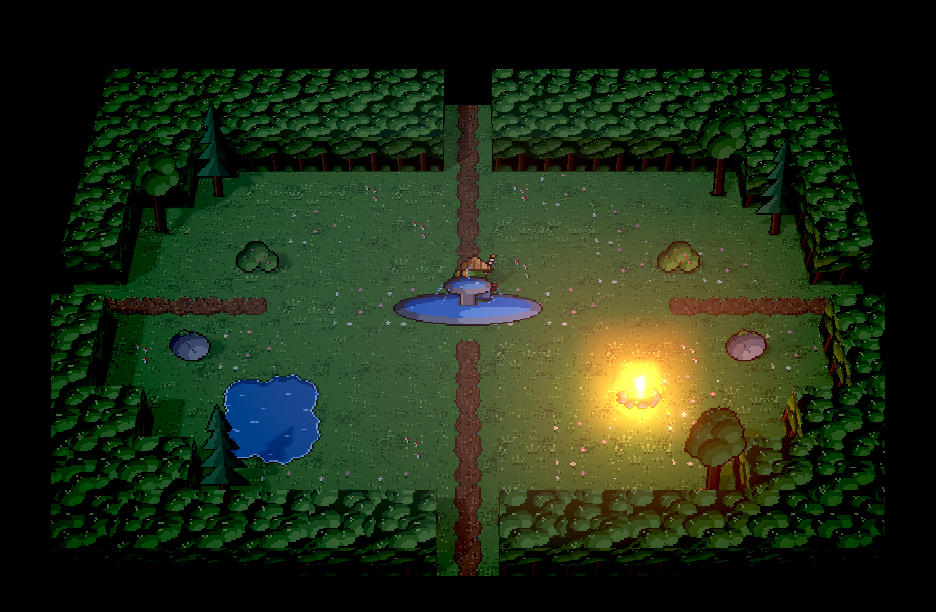
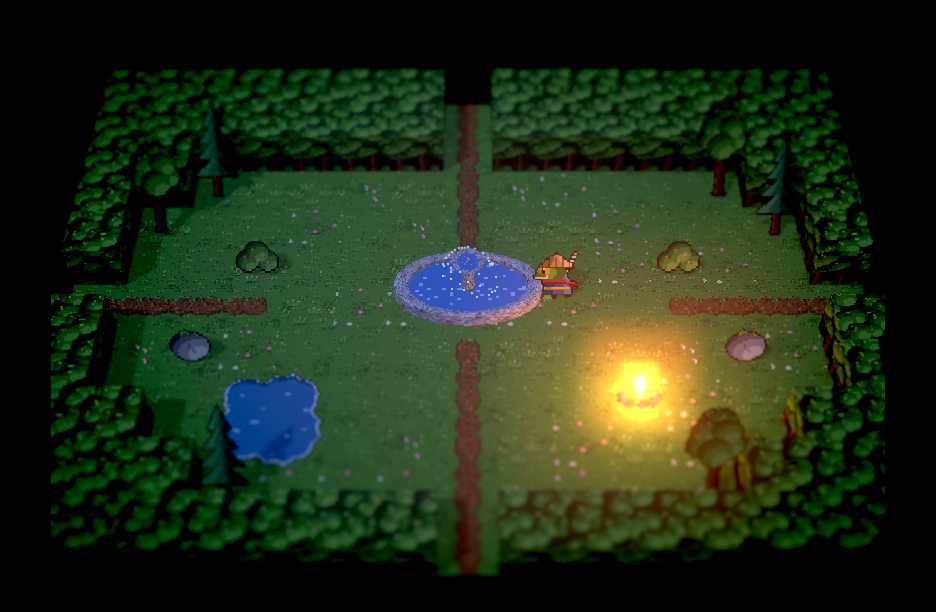
Prototipo HD-2D: fuente como modelo 3D con relieve
Pilón con borde de piedra, agua, columna, taza y gotas, con texturas pixeladas de la paleta del arte. Choca con su elipse; antes, tumbada, dejaba paredes invisibles sobre el pilón.

diff --git a/src/prototipo/hd2d.ts b/src/prototipo/hd2d.ts
@@ -21,6 +21,7 @@ import { crearTeclado } from '../input/teclado';
 import { iniciarBucle } from '../render/bucle';
 import { cargarSprite, cargarTilesets } from '../render/recursos';
 import { dibujarTile } from '../render/sala';
+import { crearFuente } from './fuente';
 
 // shortcut: números de prueba en el código; si la v2 sigue adelante, pasan a src/data/.
 const AJUSTES = {
@@ -32,16 +33,19 @@ const AJUSTES = {
   altoMuro: 1,
   /** Fracción de la inclinación de la cámara que se echan atrás los sprites (1 = de cara; menos, para no meterse en los muros). */
   inclinacionSprites: 0.5,
-  /** Tiles dibujados vistos desde arriba, que van tumbados en el suelo en vez de en pie. */
-  enSuelo: [
-    'fuente_izq_sup',
-    'fuente_izq_inf',
-    'fuente_der_sup',
-    'fuente_der_inf',
-    'fuente_cen_inf',
-  ],
-  /** Dónde se planta, dentro de su casilla, lo que sale de un objeto tumbado. */
-  pieSobreSuelo: 0.5,
+  /** La fuente es un modelo 3D en vez de sprites; `centroZ` la baja dentro de su casilla central. */
+  fuente: {
+    centroZ: 0.15,
+    radioX: 1.4,
+    radioZ: 0.8,
+    altoBorde: 0.24,
+    altoAgua: 0.15,
+    altoColumna: 0.62,
+    piedra: [0xdfe1ea, 0xb4b8c6, 0x7a7e92] as [number, number, number],
+    agua: [0x3d7fd6, 0x9fd0f5] as [number, number],
+    gotas: 40,
+    vidaGota: 0.55,
+  },
   luzCielo: 1.6,
   luzLuna: 0.9,
   hoguera: { color: 0xff9a4a, intensidad: 14, alcance: 6, alto: 0.55, parpadeo: 0.18 },
@@ -150,8 +154,9 @@ async function iniciar(): Promise<void> {
   });
 
   // Objetos y rana: planos de pie que miran a la cámara, para que se vean como el pixel art original.
-  // Lo que está dibujado visto desde arriba (el pilón de la fuente) va tumbado en el suelo.
+  // La fuente, dibujada vista desde arriba, no funciona de pie: va como modelo 3D con relieve.
   const animados: Pieza[] = [];
+  let fuente: ReturnType<typeof crearFuente> | null = null;
   const nuevaPieza = (tiles: Tile[]): Pieza => {
     const lienzo = pintar(1, tiles.length, tam, () => {});
     const pieza = { tiles, ctx: lienzo.getContext('2d')!, tex: textura(lienzo), frame: -1 };
@@ -161,28 +166,27 @@ async function iniciar(): Promise<void> {
   };
   const materialDe = (p: Pieza): THREE.MeshLambertMaterial =>
     new THREE.MeshLambertMaterial({ map: p.tex, alphaTest: 0.5, side: THREE.DoubleSide });
-  const enSuelo = (t: Tile | null): t is Tile => t !== null && AJUSTES.enSuelo.includes(t.name);
   const hoguera = new THREE.Vector3();
   for (const o of sala.objetos) {
-    for (const [t, fila] of [
-      [o.inf, o.y],
-      [o.sup, o.y - 1],
-    ] as const) {
-      if (!enSuelo(t)) continue;
-      const calco = new THREE.Mesh(new THREE.PlaneGeometry(1, 1), materialDe(nuevaPieza([t])));
-      calco.rotation.x = -Math.PI / 2;
-      calco.position.set(o.x + 0.5, 0.01, fila + 0.5);
-      calco.receiveShadow = true;
-      escena.add(calco);
-      // shortcut: un objeto tumbado choca con sus casillas enteras (la caja del tileset es para el dibujo en 2D); en la v2, en los datos del tileset.
-      sala.solido[fila * sala.ancho + o.x] = true;
-      sala.cajas[fila * sala.ancho + o.x] = null;
+    if (o.inf.name.startsWith('fuente_')) {
+      if (o.inf.name !== 'fuente_cen_inf') continue;
+      const f = AJUSTES.fuente;
+      fuente = crearFuente(f, crearAzar(11), 2 * renderer.getPixelRatio());
+      fuente.grupo.position.set(o.x + 0.5, 0, o.y + f.centroZ);
+      escena.add(fuente.grupo);
+      // shortcut: la fuente choca con su elipse (la caja del tileset es para el dibujo en 2D); en la v2, en los datos.
+      for (let fila = o.y - 1; fila <= o.y; fila++) {
+        for (let col = o.x - 1; col <= o.x + 1; col++) {
+          const caja = cajaElipse(o.x + 0.5, o.y + f.centroZ, f.radioX, f.radioZ, col, fila, tam);
+          sala.solido[fila * sala.ancho + col] = caja !== null;
+          sala.cajas[fila * sala.ancho + col] = caja;
+        }
+      }
+      continue;
     }
-    const dePie = [o.sup, o.inf].filter((t): t is Tile => t !== null && !enSuelo(t));
-    if (dePie.length === 0) continue;
+    const dePie = [o.sup, o.inf].filter((t): t is Tile => t !== null);
     const plano = carton(materialDe(nuevaPieza(dePie)), dePie.length, 0);
-    // Lo que sale de un objeto tumbado (el surtidor) se planta en medio de él, no en su borde.
-    plano.position.set(o.x + 0.5, 0, o.y + (enSuelo(o.inf) ? AJUSTES.pieSobreSuelo : 0.85));
+    plano.position.set(o.x + 0.5, 0, o.y + 0.85);
     plano.rotation.x = -giro;
     plano.scale.y = estirar;
     escena.add(plano);
@@ -282,6 +286,7 @@ async function iniciar(): Promise<void> {
         );
       }
       for (const a of animados) pintarPieza(a, imagenes, tam, tiempo);
+      fuente?.actualizar(tiempo);
       const p = AJUSTES.hoguera.parpadeo;
       fuego.intensity =
         AJUSTES.hoguera.intensidad *
@@ -338,6 +343,31 @@ function carton(material: THREE.Material, alto: number, pie: number): THREE.Mesh
   const plano = new THREE.Mesh(geometria, material);
   plano.castShadow = true;
   return plano;
+}
+
+/** Rectángulo `[x0, y0, x1, y1)` de la casilla (`col`, `fila`) que cae dentro de la elipse, o null si nada. */
+function cajaElipse(
+  cx: number,
+  cz: number,
+  rx: number,
+  rz: number,
+  col: number,
+  fila: number,
+  tam: number,
+): readonly [number, number, number, number] | null {
+  let [x0, y0, x1, y1] = [tam, tam, 0, 0];
+  for (let y = 0; y < tam; y++) {
+    for (let x = 0; x < tam; x++) {
+      const dx = (col + (x + 0.5) / tam - cx) / rx;
+      const dz = (fila + (y + 0.5) / tam - cz) / rz;
+      if (dx * dx + dz * dz > 1) continue;
+      x0 = Math.min(x0, x);
+      y0 = Math.min(y0, y);
+      x1 = Math.max(x1, x + 1);
+      y1 = Math.max(y1, y + 1);
+    }
+  }
+  return x1 > 0 ? [x0, y0, x1, y1] : null;
 }
 
 /** Tiles de un objeto apilados de arriba abajo en una textura, que se repinta al cambiar de fotograma. */

diff --git a/src/prototipo/fuente.ts b/src/prototipo/fuente.ts
@@ -1,0 +1,153 @@
+// shortcut: modelo 3D de la fuente para el prototipo HD-2D; en la v2, cada objeto con relieve tendría el suyo.
+import * as THREE from 'three';
+
+export interface AjustesFuente {
+  /** Semiejes del pilón (elíptico, como en el dibujo), en casillas. */
+  radioX: number;
+  radioZ: number;
+  altoBorde: number;
+  altoAgua: number;
+  altoColumna: number;
+  /** Colores de la paleta del arte: piedra (clara, media, oscura) y agua (honda, clara). */
+  piedra: [number, number, number];
+  agua: [number, number];
+  /** Gotas que caen de la taza al pilón y segundos que tarda cada una. */
+  gotas: number;
+  vidaGota: number;
+}
+
+// Perfil del pilón (radio, alto) de dentro afuera, con radio 1; luego se estira en X y Z.
+const BORDE = 0.82;
+
+/** Pilón con borde, agua, columna, taza y gotas, con texturas pixeladas para que case con el resto. */
+export function crearFuente(
+  a: AjustesFuente,
+  azar: () => number,
+  tamPunto: number,
+): { grupo: THREE.Group; actualizar: (tiempo: number) => void } {
+  const grupo = new THREE.Group();
+  const piedra = new THREE.MeshLambertMaterial({
+    map: ruido(a.piedra, [0.25, 0.55, 0.2], azar, 8, 2),
+    flatShading: true,
+    // Las dos caras: el perfil del torno deja la de fuera del pilón mirando hacia dentro.
+    side: THREE.DoubleSide,
+  });
+  const texAgua = ruido(a.agua, [0.92, 0.08], azar, 2, 2);
+  const agua = new THREE.MeshPhongMaterial({
+    map: texAgua,
+    shininess: 60,
+    specular: 0x88aadd,
+    flatShading: true,
+  });
+
+  const pilon = new THREE.Mesh(
+    new THREE.LatheGeometry(
+      [
+        [BORDE - 0.02, 0],
+        [BORDE, a.altoBorde],
+        [0.91, a.altoBorde + 0.03],
+        [1, a.altoBorde],
+        [1.02, 0],
+      ].map(([r = 0, y = 0]) => new THREE.Vector2(r, y)),
+      20,
+    ),
+    piedra,
+  );
+  const lamina = new THREE.Mesh(new THREE.CircleGeometry(BORDE, 20), agua);
+  lamina.rotation.x = -Math.PI / 2;
+  lamina.position.y = a.altoAgua;
+  for (const m of [pilon, lamina]) {
+    m.scale.set(a.radioX, 1, a.radioZ);
+    grupo.add(m);
+  }
+
+  const columna = new THREE.Mesh(new THREE.CylinderGeometry(0.09, 0.13, a.altoColumna, 8), piedra);
+  columna.position.y = a.altoAgua + a.altoColumna / 2;
+  const arriba = a.altoAgua + a.altoColumna;
+  const taza = new THREE.Mesh(
+    new THREE.LatheGeometry(
+      [
+        [0.08, 0],
+        [0.26, 0.07],
+        [0.31, 0.13],
+        [0.27, 0.12],
+        [0, 0.08],
+      ].map(([r = 0, y = 0]) => new THREE.Vector2(r, y)),
+      14,
+    ),
+    piedra,
+  );
+  taza.position.y = arriba;
+  const surtidor = new THREE.Mesh(new THREE.CylinderGeometry(0.03, 0.04, 0.12, 6), piedra);
+  surtidor.position.y = arriba + 0.14;
+  const aguaTaza = new THREE.Mesh(new THREE.CircleGeometry(0.26, 14), agua);
+  aguaTaza.rotation.x = -Math.PI / 2;
+  aguaTaza.position.y = arriba + 0.11;
+  for (const m of [pilon, columna, taza, surtidor]) {
+    m.castShadow = true;
+    m.receiveShadow = true;
+  }
+  grupo.add(columna, taza, aguaTaza, surtidor);
+
+  // Gotas: salen del borde de la taza, se abren y caen al agua del pilón.
+  const posiciones = new Float32Array(a.gotas * 3);
+  const geoGotas = new THREE.BufferGeometry();
+  geoGotas.setAttribute('position', new THREE.BufferAttribute(posiciones, 3));
+  const gotas = new THREE.Points(
+    geoGotas,
+    new THREE.PointsMaterial({ color: a.agua[1], size: tamPunto, sizeAttenuation: false }),
+  );
+  grupo.add(gotas);
+  const angulos = Float32Array.from({ length: a.gotas }, (_, i) => (i / a.gotas) * Math.PI * 2);
+  const fases = Float32Array.from({ length: a.gotas }, () => azar());
+  const salida = arriba + 0.13;
+  const caida = (2 * (salida - a.altoAgua)) / (a.vidaGota * a.vidaGota);
+  const abre = (BORDE * 0.75 - 0.31) / a.vidaGota;
+
+  return {
+    grupo,
+    actualizar: (tiempo) => {
+      for (let i = 0; i < a.gotas; i++) {
+        const t = ((tiempo / a.vidaGota + (fases[i] ?? 0)) % 1) * a.vidaGota;
+        const r = 0.31 + abre * t;
+        const ang = angulos[i] ?? 0;
+        posiciones[i * 3] = Math.cos(ang) * r;
+        posiciones[i * 3 + 1] = salida - (caida * t * t) / 2;
+        posiciones[i * 3 + 2] = Math.sin(ang) * r;
+      }
+      geoGotas.attributes.position!.needsUpdate = true;
+      // El agua se mueve despacio para que brille distinto.
+      texAgua.offset.set(tiempo * 0.03, tiempo * 0.02);
+    },
+  };
+}
+
+/** Textura pequeña de píxeles de la paleta, al azar con los pesos dados, para dar grano de pixel art. */
+function ruido(
+  colores: readonly number[],
+  pesos: readonly number[],
+  azar: () => number,
+  repetirX: number,
+  repetirY: number,
+): THREE.CanvasTexture {
+  const lado = 16;
+  const lienzo = document.createElement('canvas');
+  lienzo.width = lienzo.height = lado;
+  const ctx = lienzo.getContext('2d')!;
+  for (let y = 0; y < lado; y++) {
+    for (let x = 0; x < lado; x++) {
+      let r = azar();
+      let i = 0;
+      while (i < pesos.length - 1 && r >= (pesos[i] ?? 0)) r -= pesos[i++] ?? 0;
+      ctx.fillStyle = `#${(colores[i] ?? 0).toString(16).padStart(6, '0')}`;
+      ctx.fillRect(x, y, 1, 1);
+    }
+  }
+  const tex = new THREE.CanvasTexture(lienzo);
+  tex.magFilter = tex.minFilter = THREE.NearestFilter;
+  tex.generateMipmaps = false;
+  tex.colorSpace = THREE.SRGBColorSpace;
+  tex.wrapS = tex.wrapT = THREE.RepeatWrapping;
+  tex.repeat.set(repetirX, repetirY);
+  return tex;
+}
